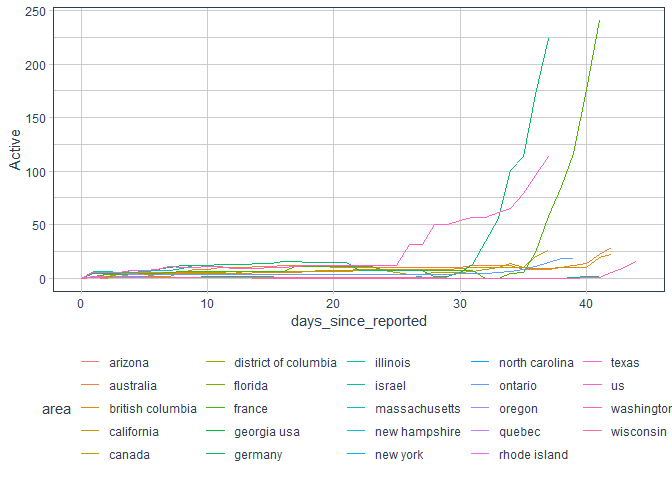
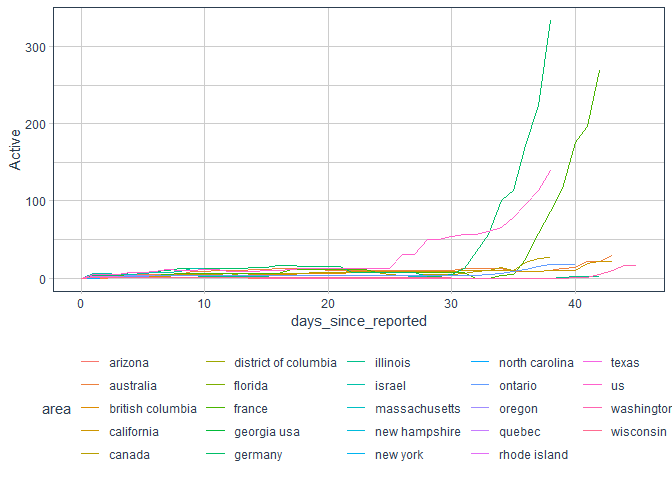
updated march 5

diff --git a/README.md b/README.md
@@ -14,8 +14,42 @@ theme_set(theme_tq())
 # updated every ~4 hours
 cases_data <- read_csv("http://hgis.uw.edu/virus/assets/virus.csv")
 
+cases_data$datetime %>% range()
+```
 
-# names by country
+    ## [1] "2020-01-21" "2020-03-05"
+
+``` r
+max_date <- 
+  cases_data %>% 
+    select(datetime, `new york`) %>% 
+    na.omit() %>% summarise(max_date = max(datetime)) %>% 
+  pull(max_date)
+
+ny_cases <- 
+  cases_data %>% 
+  select(datetime, `new york`) %>% 
+  na.omit() %>% 
+  separate(`new york`, into = c("Confirmed","Suspected","Cured","Deaths")
+           , sep = "-", extra = "warn", remove = F) %>% 
+  mutate_at(vars(Confirmed:Deaths), as.numeric) %>% 
+  mutate(Active = Confirmed+Suspected-Cured-Deaths) %>%
+  filter(datetime == max(datetime))
+
+message("Number of confirmed NY cases as of ",max_date,": ",ny_cases$Confirmed)
+```
+
+    ## Number of confirmed NY cases as of 2020-03-05: 2
+
+``` r
+message("Number of active NY cases as of ",max_date,": ",ny_cases$Active)
+```
+
+    ## Number of active NY cases as of 2020-03-05: 2
+
+# Names by country
+
+``` r
 china_names <- 
   cases_data %>% 
   select(anhui:zhejiang) %>% 
@@ -49,7 +83,8 @@ israel_names <- cases_data %>% select(israel) %>% names()
 processed <-
   cases_data %>% 
   gather(area, cases, -datetime) %>% 
-  separate(cases, into = c("Confirmed","Suspected","Cured","Deaths"), sep = "-", extra = "warn", remove = F) %>% 
+  separate(cases, into = c("Confirmed","Suspected","Cured","Deaths")
+           , sep = "-", extra = "warn", remove = F) %>% 
   mutate_at(vars(Confirmed:Deaths), function(x)ifelse(is.na(x),0,x)) %>% 
   mutate_at(vars(Confirmed:Deaths), as.numeric) %>% 
   mutate(Active = Confirmed+Suspected-Cured-Deaths) %>% 
